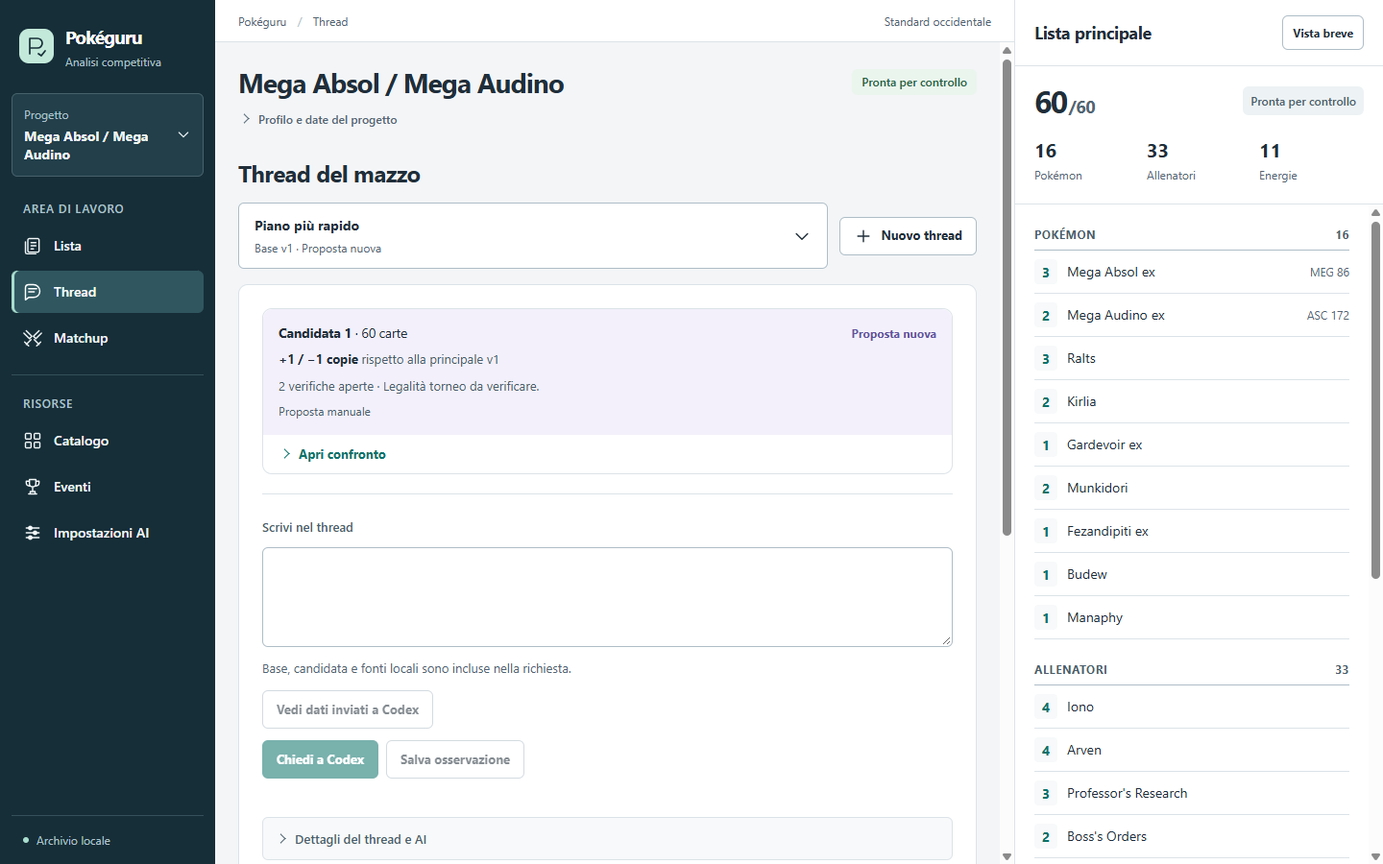
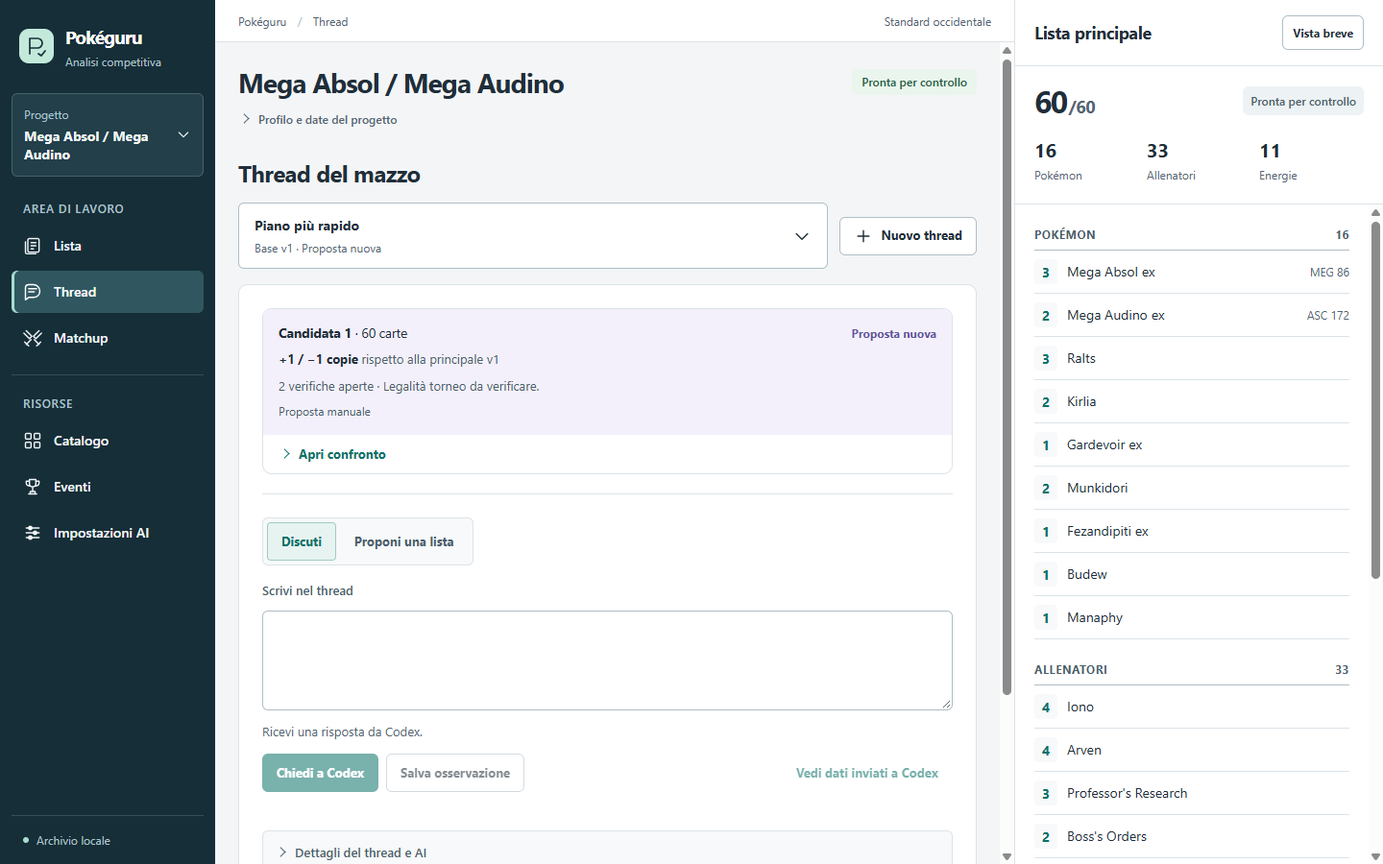
Unify thread composer with explicit intent (APP-069)

diff --git a/src/renderer/src/ThreadsSection.tsx b/src/renderer/src/ThreadsSection.tsx
@@ -212,7 +212,10 @@ export function ThreadsSection({ projectId, mainImportedAt, onAdopt }: Props) {
   const [title, setTitle] = useState('')
   const [openingNote, setOpeningNote] = useState('')
   const [message, setMessage] = useState('')
-  const [proposalRequest, setProposalRequest] = useState('')
+  const [composerMode, setComposerMode] = useState<'ask' | 'proposal'>('ask')
+  const [composerError, setComposerError] = useState<string | null>(null)
+  const composerErrorElement = useRef<HTMLDivElement>(null)
+  const previewRequest = useRef(0)
   const [preview, setPreview] = useState<{ kind: 'ask' | 'proposal'; prompt: string; packet: ThreadEvidencePacket } | null>(null)
   const [previewLoading, setPreviewLoading] = useState(false)
   const [candidateText, setCandidateText] = useState('')
@@ -233,6 +236,9 @@ export function ThreadsSection({ projectId, mainImportedAt, onAdopt }: Props) {
   useEffect(() => {
     if (createError) focusInWorkspace(newThreadError.current)
   }, [createError])
+  useEffect(() => {
+    if (composerError) focusInWorkspace(composerErrorElement.current)
+  }, [composerError])
   useEffect(() => {
     if (!confirmCandidate && !loading && !working && adoptionTrigger.current) {
       if (adoptionTrigger.current.isConnected) focusInWorkspace(adoptionTrigger.current)
@@ -259,6 +265,7 @@ export function ThreadsSection({ projectId, mainImportedAt, onAdopt }: Props) {
     let active = true
     setLoading(true)
     setError(null)
+    invalidatePreview()
     void Promise.all([window.projectsApi.listDeckVersions(projectId), window.projectsApi.listDeckThreads(projectId),
       window.projectsApi.getCatalog(), window.projectsApi.listConstraints(projectId), window.projectsApi.getStandardRuleAudit()])
       .then(([versionResult, threadResult, catalogResult, constraintResult, auditResult]) => {
@@ -281,7 +288,7 @@ export function ThreadsSection({ projectId, mainImportedAt, onAdopt }: Props) {
       })
       .catch((cause) => { if (active) setError(cause instanceof Error ? cause.message : 'Impossibile leggere i thread.') })
       .finally(() => { if (active) setLoading(false) })
-    return () => { active = false }
+    return () => { active = false; previewRequest.current++ }
   }, [projectId, mainImportedAt])
 
   useEffect(() => {
@@ -298,8 +305,9 @@ export function ThreadsSection({ projectId, mainImportedAt, onAdopt }: Props) {
       versions.find((version) => version.id === thread.baseVersionId)?.rawText ?? '')
     setCandidateNote('')
     setMessage('')
-    setProposalRequest('')
-    setPreview(null)
+    setComposerMode('ask')
+    setComposerError(null)
+    invalidatePreview()
   }
 
   function closeCreate(): void {
@@ -310,18 +318,33 @@ export function ThreadsSection({ projectId, mainImportedAt, onAdopt }: Props) {
     setCreateError(null)
   }
 
-  async function previewEvidence(kind: 'ask' | 'proposal'): Promise<void> {
-    if (!selected || previewLoading) return
-    const prompt = kind === 'ask' ? message : proposalRequest
+  function invalidatePreview(): void {
+    previewRequest.current++
+    setPreview(null)
+    setPreviewLoading(false)
+  }
+
+  function changeComposerMode(mode: 'ask' | 'proposal'): void {
+    setComposerMode(mode)
+    setComposerError(null)
+    invalidatePreview()
+  }
+
+  async function previewEvidence(): Promise<void> {
+    if (!selected || previewLoading || working) return
+    const prompt = message
     if (!prompt.trim()) return
+    const request = ++previewRequest.current
     setPreviewLoading(true)
-    setError(null)
+    setComposerError(null)
     try {
       const result = await window.projectsApi.previewDeckThreadEvidence(projectId, selected.id, prompt)
+      if (request !== previewRequest.current) return
       if (!result.ok) throw new Error(result.error)
-      setPreview({ kind, prompt, packet: result.value })
-    } catch (cause) { setError(cause instanceof Error ? cause.message : 'Anteprima non disponibile.') }
-    finally { setPreviewLoading(false) }
+      setPreview({ kind: composerMode, prompt, packet: result.value })
+    } catch (cause) {
+      if (request === previewRequest.current) setComposerError(cause instanceof Error ? cause.message : 'Anteprima non disponibile.')
+    } finally { if (request === previewRequest.current) setPreviewLoading(false) }
   }
 
   async function create(event: FormEvent<HTMLFormElement>): Promise<void> {
@@ -340,25 +363,27 @@ export function ThreadsSection({ projectId, mainImportedAt, onAdopt }: Props) {
   }
 
   async function addMessage(): Promise<void> {
-    if (!selected || working) return
+    if (!selected || working || !message.trim()) return
     setWorking(true)
-    setError(null)
+    setComposerError(null)
+    invalidatePreview()
     try {
       const result = await window.projectsApi.addDeckThreadMessage(projectId, selected.id, message)
       if (!result.ok) throw new Error(result.error)
       setThreads((current) => current.map((thread) => thread.id === selected.id ? result.value : thread))
       setMessage('')
       setPreview(null)
-    } catch (cause) { setError(cause instanceof Error ? cause.message : 'Messaggio non salvato.') }
+    } catch (cause) { setComposerError(cause instanceof Error ? cause.message : 'Messaggio non salvato.') }
     finally { setWorking(false) }
   }
 
   async function ask(event: FormEvent<HTMLFormElement>): Promise<void> {
     event.preventDefault()
-    if (!selected || working) return
+    if (!selected || working || !message.trim()) return
     setWorking(true)
     setAsking(true)
-    setError(null)
+    setComposerError(null)
+    invalidatePreview()
     try {
       const result = await window.projectsApi.askDeckThread(projectId, selected.id, message,
         selectedOverride?.model ? selectedOverride : null)
@@ -367,7 +392,7 @@ export function ThreadsSection({ projectId, mainImportedAt, onAdopt }: Props) {
       setMessage('')
       setPreview(null)
     } catch (cause) {
-      setError(cause instanceof Error ? cause.message : 'Risposta Codex non completata.')
+      setComposerError(cause instanceof Error ? cause.message : 'Risposta Codex non completata.')
       const current = await window.projectsApi.listDeckThreads(projectId)
       if (current.ok) setThreads(current.value)
     }
@@ -386,26 +411,28 @@ export function ThreadsSection({ projectId, mainImportedAt, onAdopt }: Props) {
       if (!result.ok) throw new Error(result.error)
       setThreads((current) => current.map((thread) => thread.id === selected.id ? result.value : thread))
       setCandidateNote('')
+      invalidatePreview()
     } catch (cause) { setError(cause instanceof Error ? cause.message : 'Candidata non salvata.') }
     finally { setWorking(false) }
   }
 
   async function propose(event: FormEvent<HTMLFormElement>): Promise<void> {
     event.preventDefault()
-    if (!selected || working) return
+    if (!selected || working || !selected.baseVersionId || !message.trim()) return
     setWorking(true)
     setProposing(true)
-    setError(null)
+    setComposerError(null)
+    invalidatePreview()
     try {
-      const result = await window.projectsApi.proposeDeckThread(projectId, selected.id, proposalRequest,
+      const result = await window.projectsApi.proposeDeckThread(projectId, selected.id, message,
         selectedOverride?.model ? selectedOverride : null)
       if (!result.ok) throw new Error(result.error)
       setThreads((current) => current.map((thread) => thread.id === selected.id ? result.value : thread))
       setCandidateText(result.value.candidates.at(-1)?.rawText ?? candidateText)
-      setProposalRequest('')
+      setMessage('')
       setPreview(null)
     } catch (cause) {
-      setError(cause instanceof Error ? cause.message : 'Proposta Codex non completata.')
+      setComposerError(cause instanceof Error ? cause.message : 'Proposta Codex non completata.')
       const current = await window.projectsApi.listDeckThreads(projectId)
       if (current.ok) setThreads(current.value)
     }
@@ -469,14 +496,31 @@ export function ThreadsSection({ projectId, mainImportedAt, onAdopt }: Props) {
               {timeline.filter((entry) => entry.kind !== 'candidate' || entry.item.id !== featuredCandidate?.id).map((entry) => entry.kind === 'message' ? <div className="thread-message" data-author={entry.item.author} key={entry.item.id}><small>{entry.item.author === 'user' ? 'Tu' : 'Codex'} · {displayDate(entry.item.createdAt)}</small><p>{entry.item.text}</p><ThreadMessageEvidence message={entry.item} />{entry.item.aiConfig && <details><summary>Dettagli AI</summary><p>{entry.item.aiConfig.model ?? 'Automatico'} / {entry.item.aiConfig.reasoningEffort ?? 'predefinito'} · {entry.item.aiConfig.source === 'override' ? 'scelta del thread' : 'preferenze globali'}</p></details>}</div> : <CandidateDetail key={entry.item.id} candidate={entry.item} thread={selected} versions={versions}
                 catalog={catalog} constraints={constraints} audit={ruleAudit} working={working} onAdopt={confirmAdoption} />)}
             </div>
-            <form className="thread-form" onSubmit={(event) => void ask(event)}>
+            <form className="thread-form thread-composer" onSubmit={(event) => void (composerMode === 'ask' ? ask(event) : propose(event))}>
+              <fieldset className="composer-mode" aria-label="Modalità di invio" disabled={working}>
+                <label><input type="radio" name="thread-composer-mode" value="ask" checked={composerMode === 'ask'}
+                  onChange={() => changeComposerMode('ask')} /><span>Discuti</span></label>
+                <label><input type="radio" name="thread-composer-mode" value="proposal" checked={composerMode === 'proposal'}
+                  onChange={() => changeComposerMode('proposal')} /><span>Proponi una lista</span></label>
+              </fieldset>
               <label htmlFor="thread-message">Scrivi nel thread</label>
-              <textarea id="thread-message" value={message} maxLength={5000} onChange={(event) => { setMessage(event.target.value); setPreview(null) }} />
-              <p className="content-note">Base, candidata e fonti locali sono incluse nella richiesta.</p>
-              <button type="button" className="secondary-button" disabled={!message.trim() || previewLoading || working} onClick={() => void previewEvidence('ask')}>{previewLoading ? 'Preparo i dati…' : 'Vedi dati inviati a Codex'}</button>
-              {preview?.kind === 'ask' && preview.prompt === message && <EvidencePreview packet={preview.packet} />}
-              <div className="thread-form-actions"><button className="primary-button" disabled={working || !message.trim()}>{asking ? 'Codex sta rispondendo…' : 'Chiedi a Codex'}</button>
-              <button type="button" className="secondary-button" disabled={working || !message.trim()} onClick={() => void addMessage()}>Salva osservazione</button></div>
+              <textarea id="thread-message" value={message} maxLength={5000} disabled={working} aria-describedby="thread-composer-help"
+                onChange={(event) => { setMessage(event.target.value); invalidatePreview(); setComposerError(null) }} />
+              <p id="thread-composer-help" className="content-note">{composerMode === 'ask' ? 'Ricevi una risposta da Codex.'
+                : !selected.baseVersionId ? 'Per proporre una lista serve una lista iniziale del thread.' : 'Ricevi una lista completa da confrontare.'}</p>
+              {composerError && <div ref={composerErrorElement} className="error-banner" role="alert" tabIndex={-1}>{composerError}</div>}
+              <div className="composer-actions"><div className="thread-form-actions">
+                <button className="primary-button" disabled={working || !message.trim() || (composerMode === 'proposal' && !selected.baseVersionId)}>
+                  {asking ? 'Codex sta rispondendo…' : proposing ? 'Codex sta preparando la proposta…'
+                    : composerMode === 'ask' ? 'Chiedi a Codex' : 'Genera proposta Codex'}
+                </button>
+                <button type="button" className="secondary-button" disabled={working || !message.trim()}
+                  title="Salva il testo senza inviarlo a Codex" onClick={() => void addMessage()}>Salva osservazione</button>
+              </div>
+              <button type="button" className="text-button composer-preview" disabled={!message.trim() || previewLoading || working}
+                onClick={() => void previewEvidence()}>{previewLoading ? 'Preparo i dati…' : 'Vedi dati inviati a Codex'}</button>
+              </div>
+              {preview?.kind === composerMode && preview.prompt === message && <EvidencePreview packet={preview.packet} />}
             </form>
             <details className="thread-ai-options"><summary>Dettagli del thread e AI</summary><div className="thread-form"><p className="content-note">Creato il {displayDate(selected.createdAt)}</p>
               <label htmlFor="thread-ai-model">Modello Codex per questo thread</label>
@@ -495,18 +539,6 @@ export function ThreadsSection({ projectId, mainImportedAt, onAdopt }: Props) {
                 {selectedModel?.reasoningEfforts.map((effort) => <option key={effort.id} value={effort.id}>{effort.id}</option>)}
               </select>
             </div></details>
-            <form className="thread-form candidate-form" onSubmit={(event) => void propose(event)}>
-              <h4>Proposta completa con Codex</h4>
-              <p className="content-note">Descrivi cosa cambiare. Riceverai una lista completa da confrontare.</p>
-              <label htmlFor="thread-proposal-request">Modifica da valutare</label>
-              <textarea id="thread-proposal-request" value={proposalRequest} maxLength={5000}
-                onChange={(event) => { setProposalRequest(event.target.value); setPreview(null) }} />
-              <button type="button" className="secondary-button" disabled={!proposalRequest.trim() || previewLoading || working} onClick={() => void previewEvidence('proposal')}>{previewLoading ? 'Preparo i dati…' : 'Vedi dati inviati a Codex'}</button>
-              {preview?.kind === 'proposal' && preview.prompt === proposalRequest && <EvidencePreview packet={preview.packet} />}
-              <button className="primary-button" disabled={working || !selected.baseVersionId || !proposalRequest.trim()}>
-                {proposing ? 'Codex sta preparando la proposta…' : 'Genera proposta Codex'}
-              </button>
-            </form>
             <details className="manual-candidate"><summary>Incolla manualmente una candidata completa</summary><form className="thread-form candidate-form" onSubmit={(event) => void saveCandidate(event)}>
               <h4>Nuova candidata</h4>
               <p className="content-note">Incolla l'intera lista. Puoi salvare anche una bozza incompleta.</p>

diff --git a/src/renderer/src/styles.css b/src/renderer/src/styles.css
@@ -296,6 +296,17 @@ details[open] > summary { margin-bottom: 8px; }
 .thread-detail > .thread-form { padding: 24px 0; border-top: 1px solid var(--line); }
 .thread-form .content-note { margin-bottom: 0; }
 .thread-form-actions { display: flex; align-items: center; flex-wrap: wrap; gap: 8px; }
+.composer-mode { display: inline-flex; flex-wrap: wrap; justify-self: start; gap: 4px; margin: 0 0 4px; padding: 4px; min-width: 0; border: 1px solid var(--line); border-radius: var(--radius-sm); background: var(--surface-subtle); }
+.composer-mode label { position: relative; cursor: pointer; }
+.composer-mode input { position: absolute; inset: 0; width: 100%; height: 100%; margin: 0; opacity: 0; cursor: inherit; }
+.composer-mode span { display: flex; align-items: center; min-height: 40px; padding: 8px 14px; border: 1px solid transparent; border-radius: 4px; font-size: var(--text-sm); font-weight: 650; }
+.composer-mode input:checked + span { background: var(--accent-soft); border-color: var(--accent-line); color: var(--accent); }
+.composer-mode input:focus-visible + span { outline: 3px solid var(--focus); outline-offset: 2px; }
+.composer-mode label:hover span { background: var(--surface-hover); }
+.composer-mode:disabled { opacity: .55; }
+.composer-mode:disabled label { cursor: not-allowed; }
+.thread-composer .composer-preview { justify-self: start; padding-left: 0; }
+.composer-actions { display: flex; align-items: center; justify-content: space-between; flex-wrap: wrap; gap: 8px; }
 .thread-ai-options, .candidate-evidence, .matchup-report-meta, .matchup-ai-details { margin: 16px 0; padding: 4px 12px; background: var(--surface-subtle); border: 1px solid var(--line); border-radius: var(--radius-sm); }
 .manual-candidate, .thread-versions { margin-top: 20px; padding-top: 8px; border-top: 1px solid var(--line); }
 .thread-versions > details { margin: 8px 0; padding: 8px 16px; border: 1px solid var(--line); border-radius: var(--radius-sm); background: var(--surface); }

diff --git a/docs/BACKLOG.md b/docs/BACKLOG.md
@@ -75,7 +75,8 @@ Dimensioni relative: **S** contenuto, **M** medio, **L** epica da scomporre prim
 | **APP-066** | Importazione su richiesta e annullamento | UI/UX | R-03, R-04 / qualità pre-I4 | P1 / S | APP-065; proposta approvata dall'utente | Done |
 | **APP-067** | Revisione condivisa di selezione e creazione dei Thread | UI/UX | R-03, R-07 / qualità pre-I4 | P1 / S | APP-066; proposta approvata dall'utente | Done |
 | **APP-068** | Revisione condivisa della gerarchia tra conversazione e candidata | UI/UX | R-07, R-08 / qualità pre-I4 | P1 / S | APP-067; proposta approvata dall'utente | Done |
-| **APP-069** | Revisione condivisa della scrittura nel Thread | UI/UX | R-07, R-08 / qualità pre-I4 | P1 / S | APP-068; proposta da discutere con l'utente | Backlog |
+| **APP-069** | Revisione condivisa della scrittura nel Thread | UI/UX | R-07, R-08 / qualità pre-I4 | P1 / S | APP-068; proposta approvata dall'utente | Done |
+| **APP-070** | Revisione condivisa della scelta dell'avversario nei Matchup | UI/UX | R-10 / qualità pre-I4 | P1 / S | APP-069; proposta da discutere con l'utente | Backlog |
 
 ## Task dettagliati I0–I2
 
@@ -607,10 +608,20 @@ Dimensioni relative: **S** contenuto, **M** medio, **L** epica da scomporre prim
 - **Verifiche Windows:** build/typecheck e quattro percorsi Electron passati: workspace UI, adozione, thread persistenti e AI offline. Riepilogo e confronto a 1440×900, 1280×720 e 640×720; workspace anche a 1241/1240×720 e 1024×768. Contrasto, tastiera, focus dopo chiusura/adozione, bozza conservata, scroll indipendente e lista persistente verificati. Il primo messaggio di esempio compare nella prima schermata desktop; quantità, sole stampe, nessuna variazione, nuova candidata, base superata, adozione esplicita, archivio delle candidate e riapertura controllati. Schermate demo/fixture ispezionate, contrasto minimo della demo 5,54:1. `git diff --check` pulito.
 - **Limiti:** dati UI di esempio e archivio temporaneo per i test; nessuna nuova generazione AI. Linux, lettore di schermo e scala OS elevata non verificati. Il percorso AI live è adattato al confronto apribile ma non rieseguito. Nessun merge o release.
 
-### APP-069 — Scrittura nel Thread, proposta da discutere
+### APP-069 — Scrittura nel Thread
 
 - **Osservazione:** scrittura del messaggio e richiesta di una lista completa usano due grandi campi separati, con istruzioni e anteprima dati ripetute.
-- **Proposta:** un campo di scrittura con scelta esplicita tra “Discuti” e “Proponi una lista”; mantenere salvataggio dell'osservazione e importazione manuale della candidata come azioni distinte. Preservare errori, bozza, anteprima dei dati e semantica delle API. Da discutere con l'utente prima di applicare.
+- **Autorizzazione e Ready:** proposta approvata dall'utente il 24-10-2026; perimetro S e dipendenze risolti, quindi avviata sul ramo locale `task/production-design-system`.
+- **Accettazione:** un campo con scelta esplicita “Discuti” / “Proponi una lista”; salvataggio dell'osservazione e importazione manuale della candidata distinti. Il cambio modalità conserva il testo; errori contestuali conservano la richiesta; anteprima unica e risultati tardivi ignorati dopo cambi di contesto. Contratti e semantica delle API invariati.
+- **Verifica prevista:** build, Electron con tastiera, modalità, osservazione persistita, errori e risposte tardive; regressioni Thread/adozione/workspace e AI offline. Layout/contrasto a 1440×900, 1280×720 e 640×720 con lista principale consultabile.
+- **Risultato:** unico campo con radio native “Discuti” / “Proponi una lista”, indicazione e pulsante principale coerenti con la modalità. “Salva osservazione” resta distinto e disponibile in entrambe, senza invio AI; una sola anteprima, in posizione secondaria. Testo conservato al cambio modalità e dopo errori, controlli pertinenti disabilitati durante invio/salvataggio. Errori contestuali portati in vista. Anteprime invalidate da testo, modalità, thread, versione principale, nuova candidata e smontaggio; risposte tardive ignorate. Il cambio thread riparte da campo vuoto e Discuti, come il precedente azzeramento delle bozze. Import manuale e contratti IPC invariati.
+- **Verifiche Windows:** build/typecheck e cinque percorsi Electron passati: `thread-composer-ui-live.mjs`, AI offline, workspace UI, thread persistenti e adozione. Tastiera/frecce, testo conservato, lista iniziale assente, osservazioni realmente persistite e isolate, errore SQLite e recupero nel solo archivio temporaneo, instradamento delle modalità e disabilitazione durante attesa verificati. Fixture dichiarate per risposte AI e ritardi: anteprime tardive dopo cambio modalità/testo/thread non ricompaiono. Layout/contrasto a 1440×900, 1280×720 e 640×720; workspace anche a 1241/1240×720 e 1024×768. Schermate ispezionate, lista persistente senza sovrapposizioni e contrasto minimo osservato 5,16:1. `git diff --check` pulito.
+- **Limiti:** nessuna nuova generazione AI; il test con risposte simulate verifica solo il renderer e l'instradamento, non l'integrazione. Prove Linux, lettore di schermo e scala OS elevata non eseguite. Bozze tra thread/riavvii fuori da questo task; nessun merge o release.
+
+### APP-070 — Scelta dell'avversario nei Matchup, proposta da discutere
+
+- **Osservazione:** ricerca permanente affiancata a una striscia orizzontale di archetipi; i riquadri nascondono parte delle opzioni e occupano spazio prima della guida.
+- **Proposta:** selettore unico ricercabile con nome avversario, quota meta e disponibilità della guida, coerente con progetti e Thread. Preservare distinzione fra meta corrente e storico, fonti e quota meta diversa dal winrate. Da discutere con l'utente prima di applicare.
 
 ## Regola per i blocchi
 

diff --git a/docs/DESIGN_SYSTEM.md b/docs/DESIGN_SYSTEM.md
@@ -69,6 +69,8 @@ I token risiedono in `src/renderer/src/tokens.css`; `styles.css` descrive i comp
 
 ## Verifica
 
+**Scrittura Thread (APP-069):** un campo e due modalità con radio native, navigabili con Tab e frecce. Stesso testo al cambio modalità, azione primaria esplicita, osservazione separata e una sola anteprima secondaria. Azioni nella stessa riga quando lo spazio lo permette, a capo quando serve. Errori nel modulo, valori conservati e controlli disabilitati durante invio/salvataggio; nessuna anteprima tardiva in un contesto diverso.
+
 **Thread (APP-067/068):** selettore con titolo, base e stato sintetico accanto a “Nuovo thread”. Ricerca e opzioni riprendono i componenti del selettore progetti; il menu resta entro l'area di lavoro, con scorrimento proprio e titoli lunghi a capo. La creazione usa un modulo nel flusso, con annullamento/Escape, focus restituito ed errori conservativi portati in vista. La candidata corrente mostra un riepilogo con stato, copie cambiate, blocchi/incertezze e origine; il confronto completo si apre nella pagina e si richiude anche con Escape. Le candidate precedenti restano nella cronologia. Titolo/base duplicati sono rimossi, data e configurazione AI sono sotto la conversazione.
 
 La verifica usa Electron reale su Windows, con archivi separati. I dati di Catalogo/Eventi e la guida del test sono **fixture UI**, non nuove acquisizioni o generazioni AI. Il test Matchup può ricevere il metagame attraverso il connettore già esistente; la guida resta una fixture dichiarata.
@@ -100,6 +102,8 @@ Schermate registrate: [Lista 1440](design-review/lista-1440.png), [Lista 1280](d
 5. Ridimensionare tra 1440 e 1280 px, poi sotto 1240 px; provare Tab, Shift+Tab, Enter, Escape e PageDown nella lista.
 
 Per conservare il profilo creato dalla prova: `node tests/workspace-ui-live.mjs --keep-profile`. Il comando stampa la cartella temporanea da usare come `POKEGURU_DATA_DIR` durante la prova manuale.
+
+**Prova della scrittura (APP-069):** Thread → scrivere un testo → cambiare Discuti / Proponi una lista anche con le frecce → aprire l'anteprima. “Salva osservazione” salva realmente il testo nel thread; le azioni Codex richiedono il servizio disponibile. [Proposta 1440](design-review/thread-scrittura-1440.png), [1280](design-review/thread-scrittura-1280.png), [640](design-review/thread-scrittura-640.png), [Discuti](design-review/thread-discuti-1280.png), [errore 640](design-review/thread-scrittura-errore-640.png) usano fixture dichiarate; `node tests/thread-composer-ui-live.mjs` verifica anche persistenza, errore SQLite, instradamento e anteprime tardive. Non certifica nuove generazioni AI. Contrasto minimo osservato 5,16:1.
 
 ## Feedback utile
 

diff --git a/docs/DECISIONS.md b/docs/DECISIONS.md
@@ -113,6 +113,12 @@ L'utente approva il riepilogo della candidata con “Apri confronto” e la rimo
 
 Il confronto resta nel flusso della pagina, con liste, fonti e controlli esistenti. L'apertura porta i contenuti in vista quando necessario, muovendo solo l'area centrale; chiusura ed Escape restituiscono il focus al comando. Dopo adozione il focus torna al selettore quando il caricamento è concluso. L'adozione resta esplicita e richiede la conferma dell'intera lista. Le candidate precedenti restano apribili nella cronologia; data di creazione e configurazione AI passano sotto la scrittura. Nessuna modifica a validatori, persistenza o integrazioni.
 
+### T-58 — Campo unico per scrivere nel Thread (APP-069)
+
+L'utente approva un campo con scelta “Discuti” / “Proponi una lista” e “Salva osservazione” distinto. Le due modalità usano radio native e condividono il testo: il cambio modalità non lo cancella. La modalità determina la chiamata AI esistente, l'indicazione sintetica e il pulsante principale; Salva osservazione conserva il testo nel thread senza chiamare Codex. La mancanza di una base del thread continua a impedire la proposta completa ed è spiegata vicino al campo.
+
+Una sola anteprima dei dati è secondaria rispetto alle azioni. Un contatore invalida risposte pendenti quando cambiano testo, modalità o contesto; un'anteprima vecchia non può ripristinare contenuti o errori sul nuovo thread. Durante invio/salvataggio il campo e la modalità sono disabilitati per evitare che il successo cancelli modifiche successive. Gli errori sono nel modulo e conservano la richiesta. Bozze per thread o persistenti non sono introdotte: il cambio thread azzera il campo, come prima. I test con ritardi/risposte AI simulate verificano la UI; osservazioni e errore SQLite usano lo storage reale temporaneo. Nessun cambio alle API di produzione.
+
 ## Registro delle fonti primarie
 
 | ID | Fonte consultata il 23-10-2026 | Conclusione utilizzabile | Limite e verifica futura |

diff --git a/README.md b/README.md
@@ -46,6 +46,8 @@ APP-067 riunisce i **Thread** in un selettore con ricerca, titolo e stato, accan
 
 APP-068 mostra la candidata corrente in un **riepilogo compatto**, con stato, copie cambiate e controlli essenziali. **Apri confronto** espande liste, differenze, fonti e adozione manuale; Escape o **Chiudi confronto** riportano al riepilogo. Il titolo del thread compare nel solo selettore e la conversazione precede i dettagli AI.
 
+APP-069 usa un unico campo per **Discuti / Proponi una lista**, conservando il testo al cambio modalità. **Salva osservazione** registra il testo senza chiamare Codex; l'anteprima dei dati è unica. Errori contestuali conservano la richiesta e le anteprime tardive vengono ignorate dopo un cambio di contesto.
+
 Il ramo `task/production-design-system` rifinisce tutte le viste dell'app con token condivisi, tipografia sans, icone SVG, controlli leggibili e stati coerenti. La sidebar desktop è larga **224 px**; la lista principale rimane fissa a **384 px**, con dock di 220 px sotto la soglia di 1240 px. Il primo progetto si crea nell'area centrale. Metadati e metodo precedono meno spesso carte, differenze e strategia; focus e scorrimento sono verificati anche da tastiera.
 
 L'[audit e le regole del design system](docs/DESIGN_SYSTEM.md) descrivono le scelte e i percorsi di prova. `node tests/workspace-ui-live.mjs --keep-profile`, dopo la build, conserva e stampa un profilo dimostrativo isolato. La guida e le liste di prova sono esempi UI, non nuove generazioni Codex. La rifinitura non è ancora integrata in `dev` né nella release v0.1.0.

diff --git a/docs/PLAN.md b/docs/PLAN.md
@@ -96,6 +96,8 @@ Al termine di ciascun incremento, mostrare il percorso utente, registrare eviden
 
 ## Ripresa
 
+- **APP-069 completato:** campo unico con Discuti / Proponi una lista, osservazione distinta, errori contestuali e anteprima unica con protezione dalle risposte tardive. Build e cinque percorsi Electron passati; risultati e limiti nel backlog. Prossimo punto proposto: APP-070, selezione dell'avversario nei Matchup, da discutere prima di applicare. Ramo locale `task/production-design-system`; I4, merge e release esclusi.
+
 - **APP-068 completato:** candidata compatta, confronto apribile nella pagina e intestazione senza duplicazioni; data e AI sotto la conversazione. Build e quattro percorsi Electron passati; riepilogo/confronto, blocchi/incertezze, adozione, focus e responsive verificati su Windows. Risultati e limiti nel backlog. Prossimo punto proposto: APP-069, unificazione dei campi di scrittura del Thread, da discutere prima di applicare. Ramo locale `task/production-design-system`; nessun I4, merge o release.
 
 - **APP-067 completato:** selettore Thread con titolo/stato e ricerca, modulo di creazione nel contenuto, annullamento e focus/errori contestuali. Build e cinque percorsi Electron passati; menu, tastiera, persistenza/isolamento e responsive verificati su Windows. Risultati e limiti nel backlog. Prossimo punto proposto: APP-068, gerarchia tra conversazione e candidata, da discutere prima di applicare. Ramo locale `task/production-design-system`; I4, merge e release esclusi.
